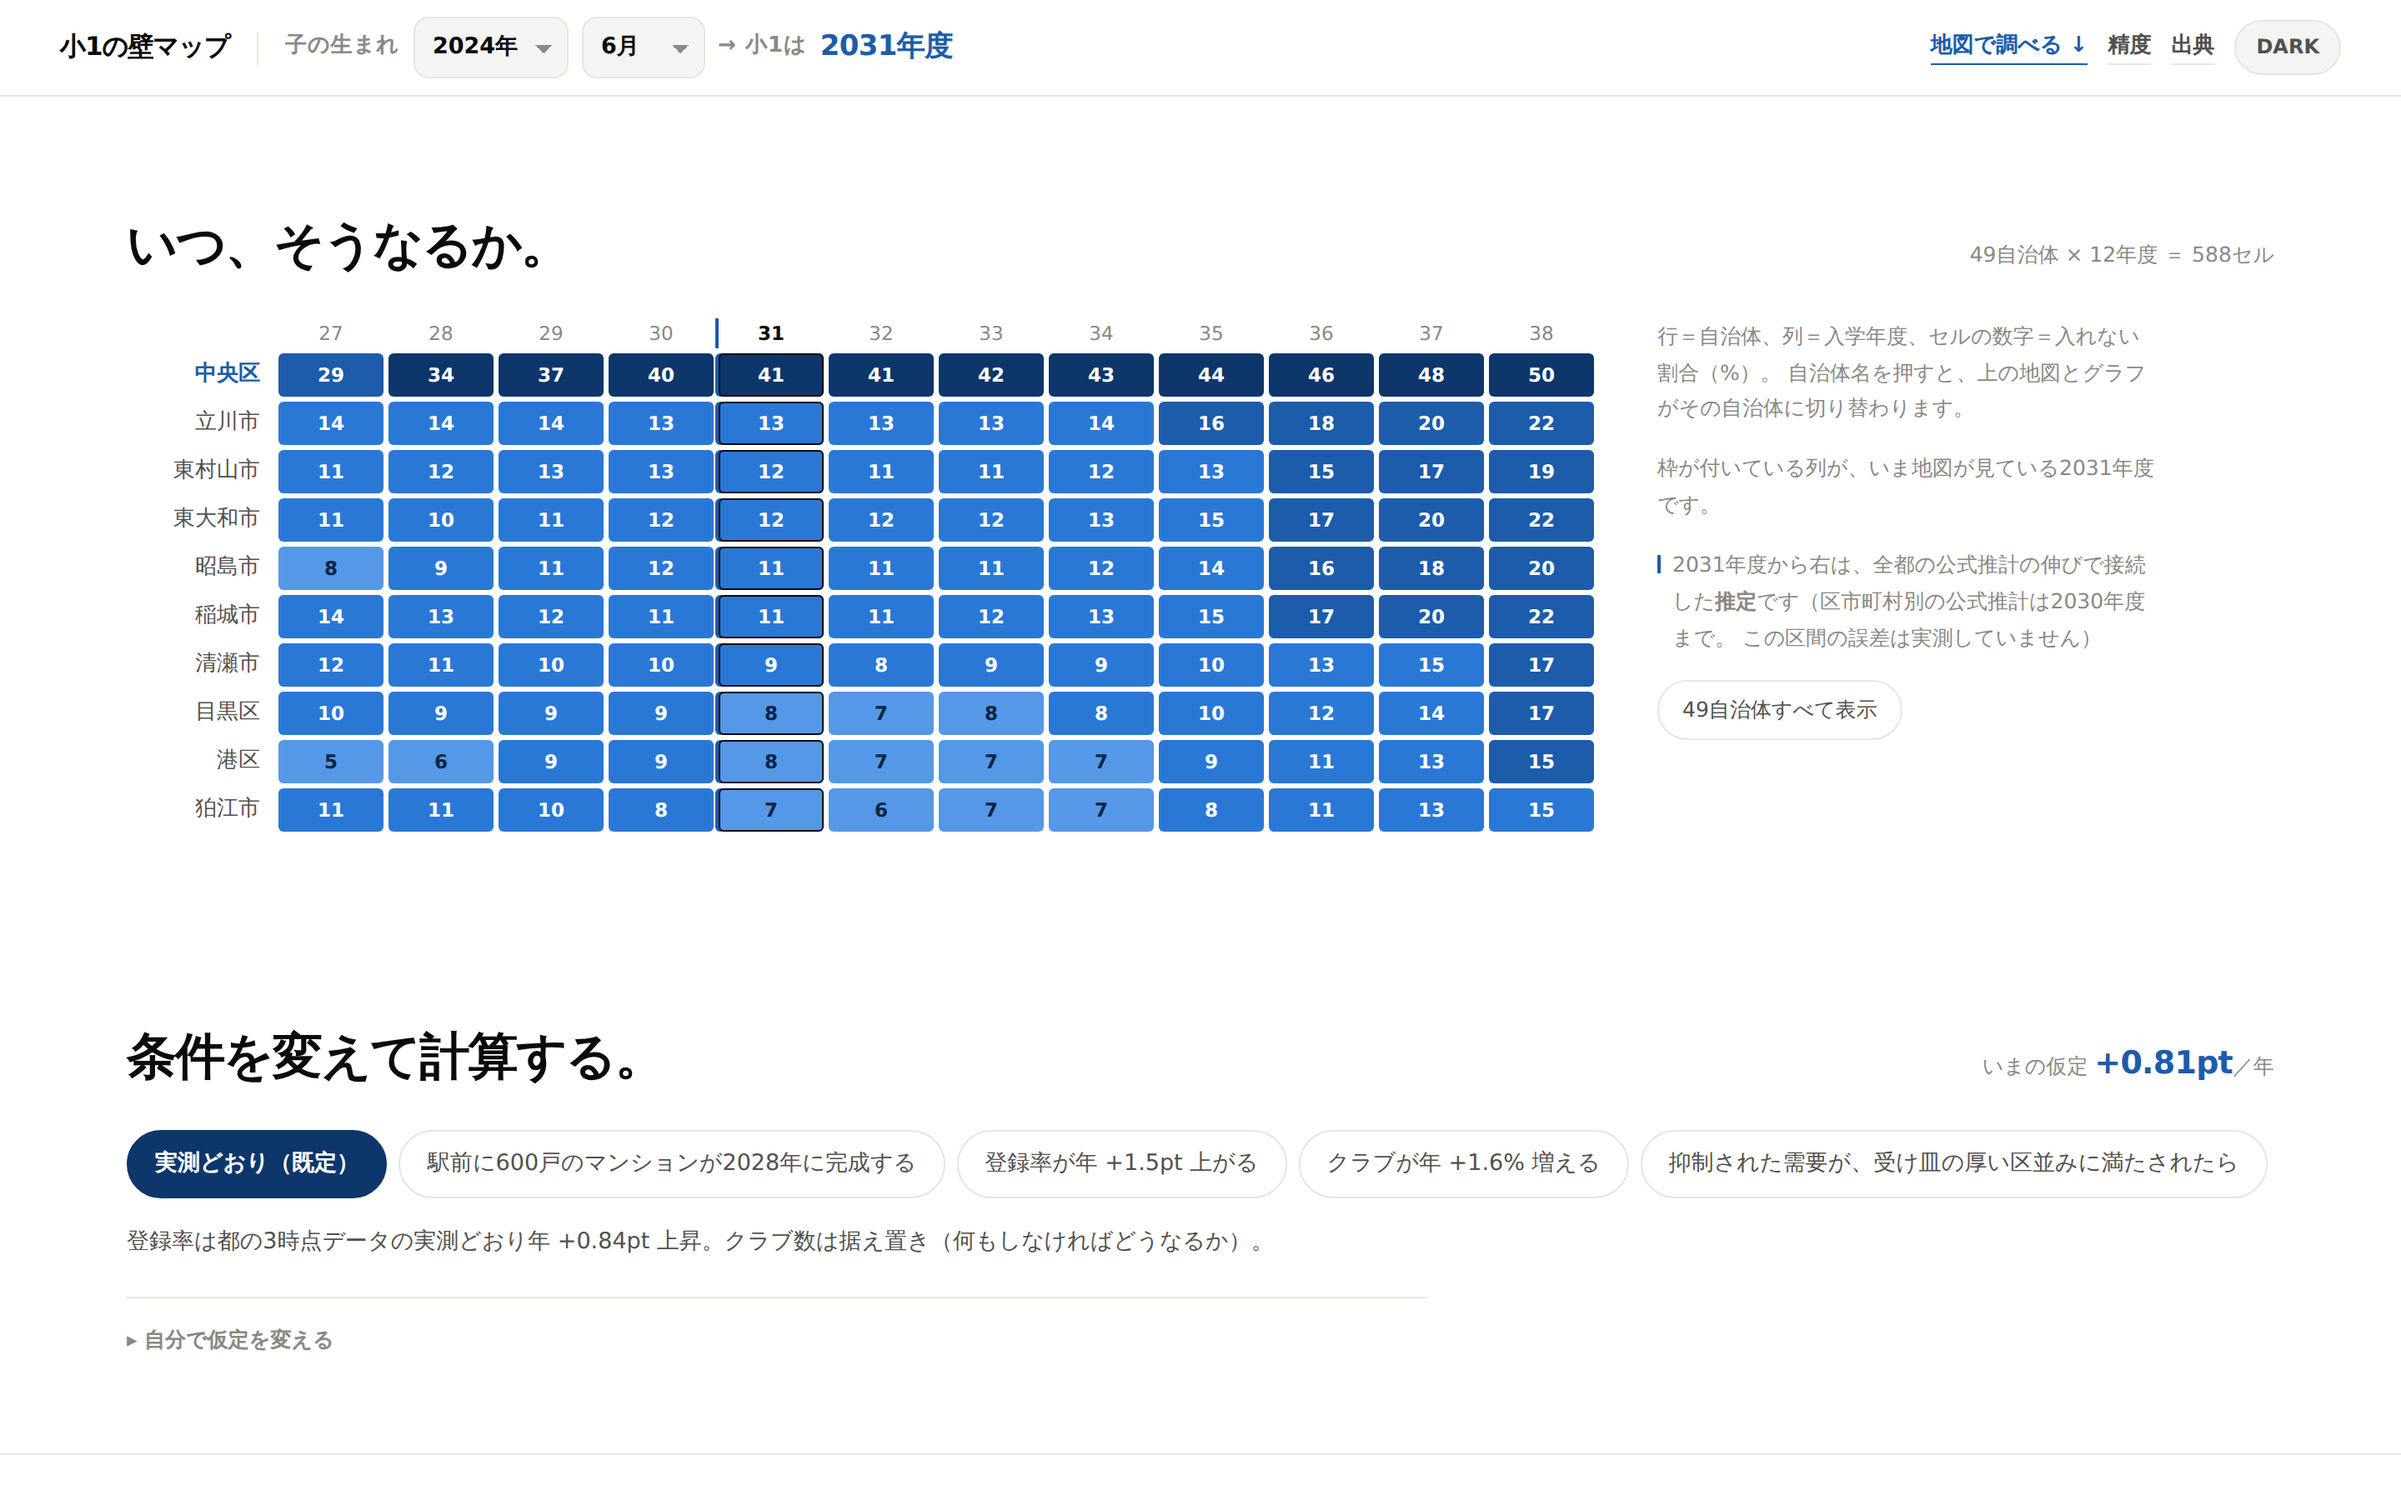
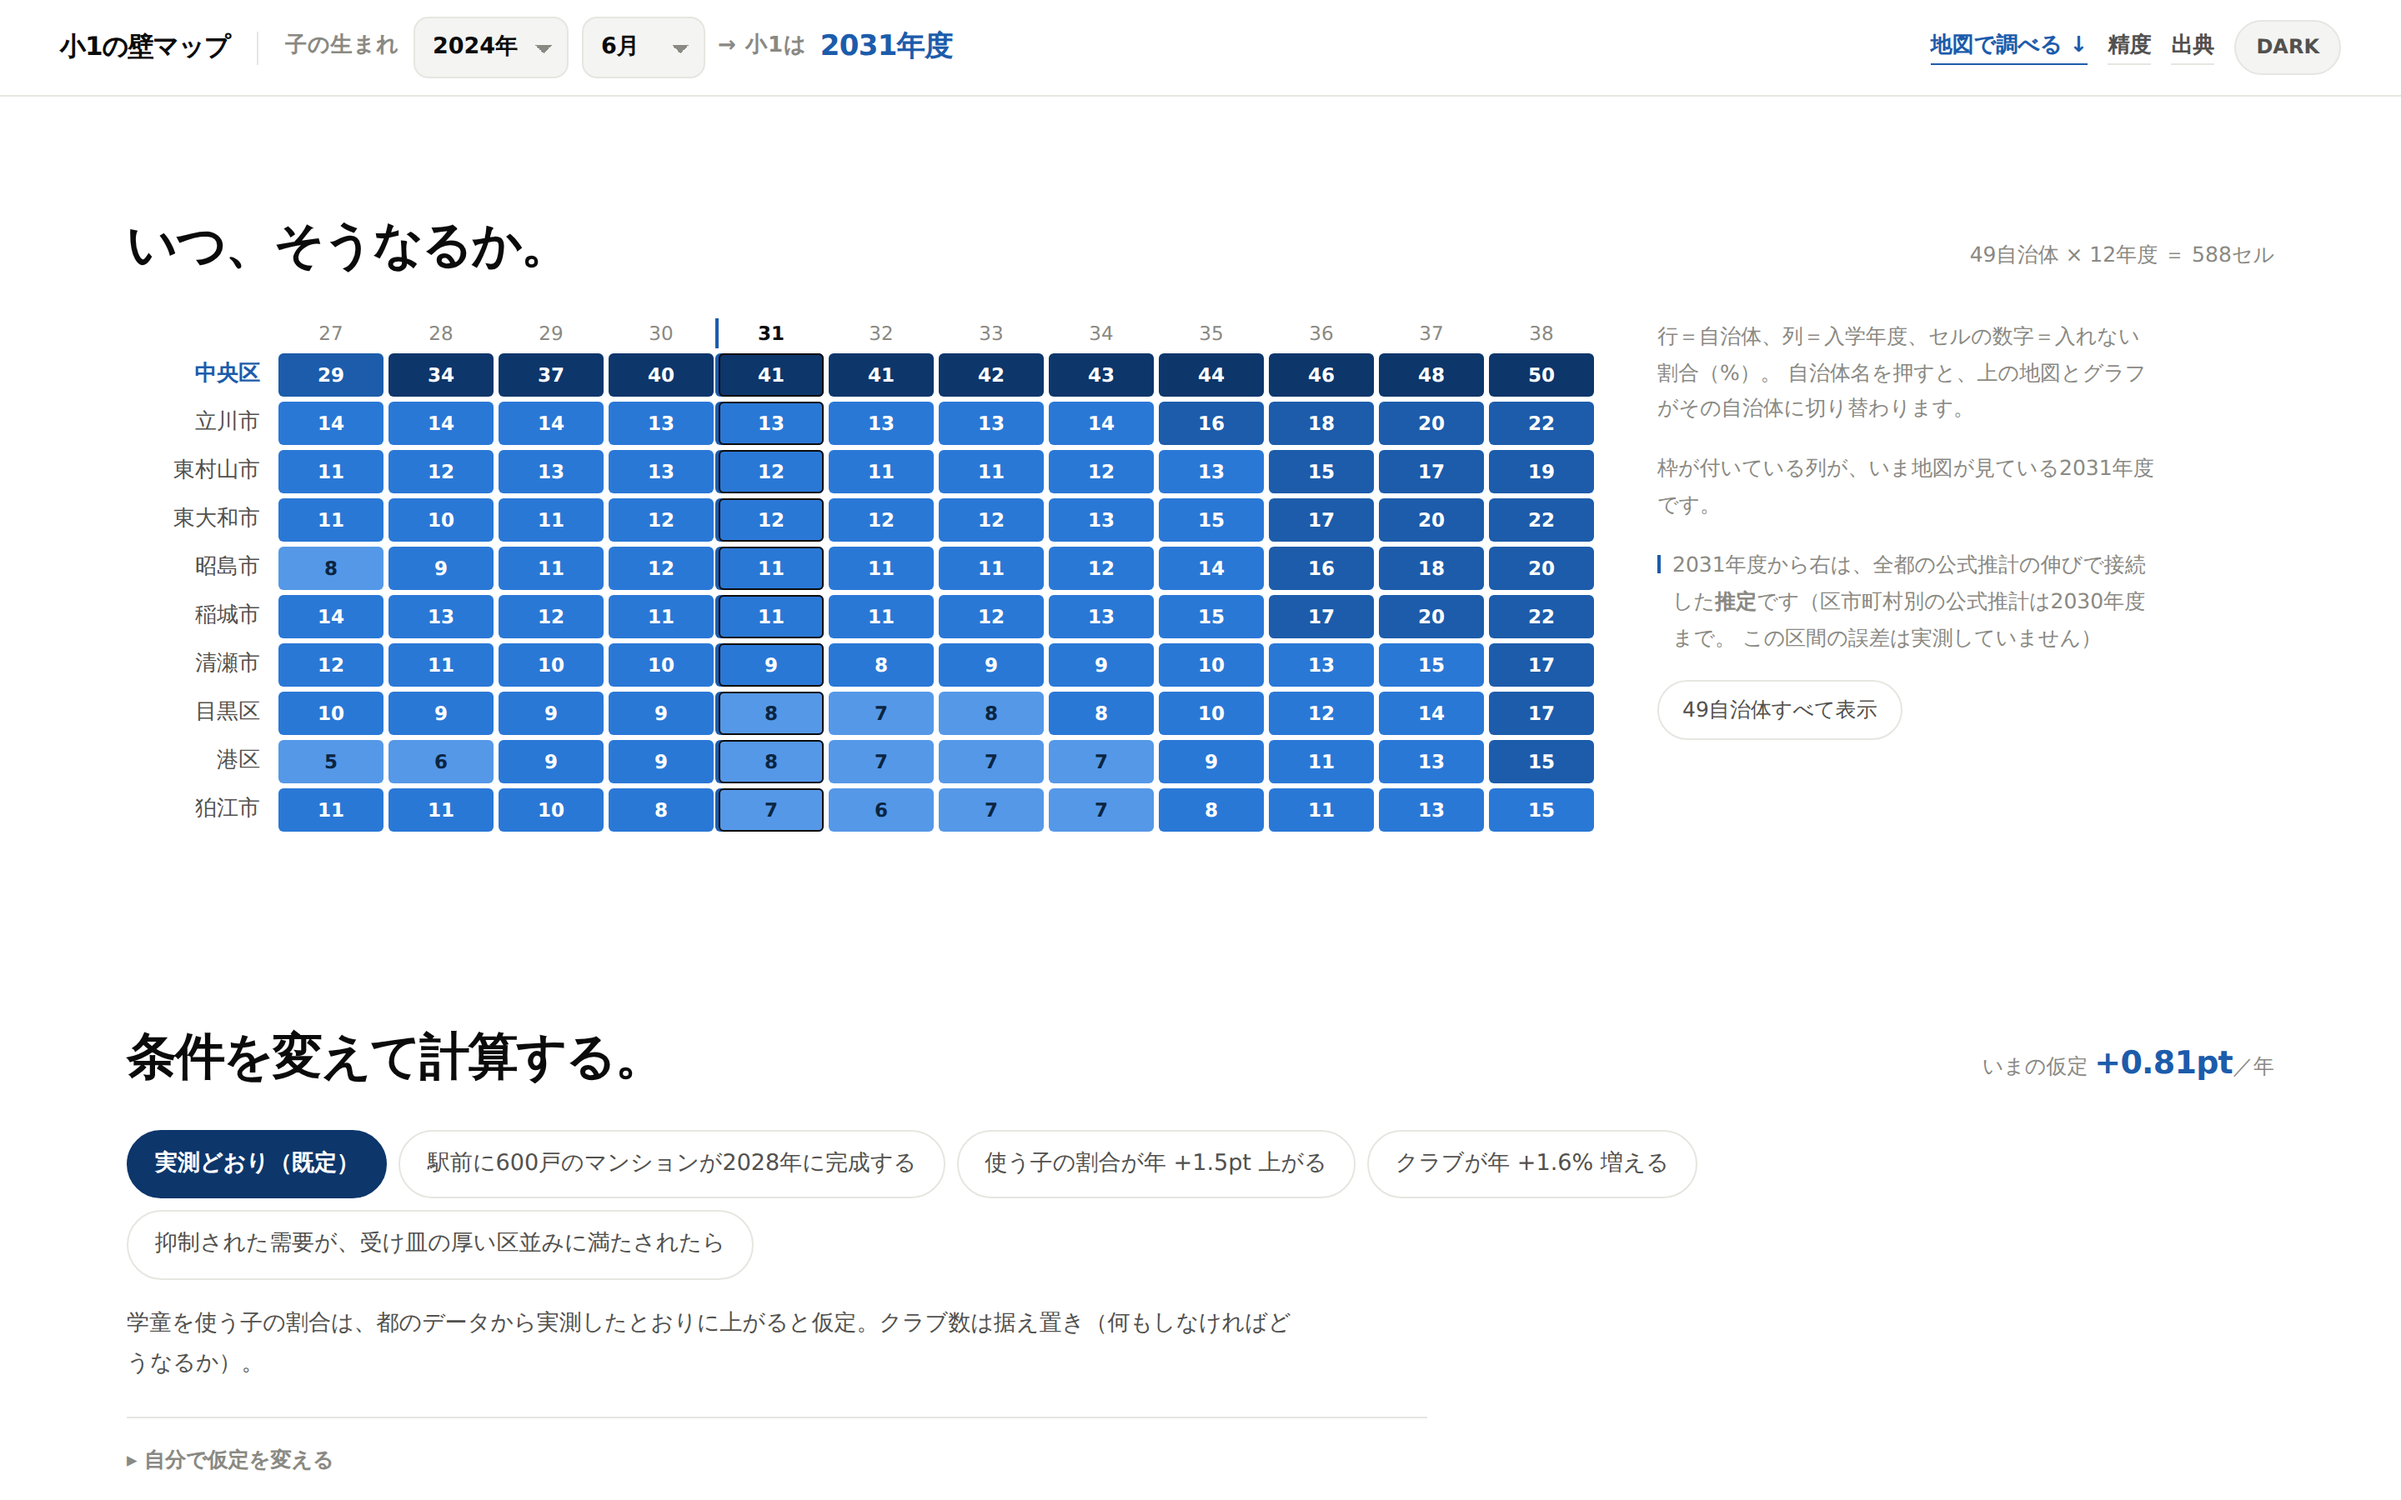
main（②の core 5コミット）を取り込む
API は追加のみで、③のUI側に変更は要らなかった。

- npm test が 66件すべて通過（取り込み前は3件失敗していた）
- 画面の数値は取り込み前後で一致（中央区2031年度 882人／必要2,173／受入1,291／
  待機275／クラブ31、実測トレンド +0.81pt、バックテスト 0.93%・1.37%、
  どの年も不足しないのは3自治体）
- 地図クリック→明細・#choose・ヒートマップ・選択リングの追従も回帰なし

これまで報告していた「同じ画面に +0.81pt と +0.84pt が並ぶ」は、②が main で
解消済みだった（DEFAULT_TREND を 0.0081 に訂正し、プリセットの説明文からは
数字を削除して二重に持たない形にした）。docs/21-redesign.md §8 を更新し、
スクリーンショットを撮り直した。

Claude-Session: https://claude.ai/code/session_018a8KgM77AbzTe8mQVbFP9y

diff --git a/docs/21-redesign.md b/docs/21-redesign.md
@@ -270,12 +270,16 @@ const onPointerMove = (e) => {
 画面に出る数値は**すべて実行時に `data/app/data.json` と `src/core/` から計算**している。
 UI側にハードコードした数値は1つも無い。そのうえで確定していないのは次の3点。
 
-1. **🔴 `[要確認]` 同じ画面に「実測 +0.81pt」と「実測 +0.84pt」が並んで出ている。**
-   `#evidence` と `#scenario` のメタは `measureTrend(DATA)` の実測値 **+0.81pt** を出すが、
-   `src/core/scenario.ts:95` と `:108` のプリセット説明文は **+0.84pt** と書いている
-   （`src/core/constants.ts` の `DEFAULT_TREND = 0.0084` に由来）。
-   実際の計算に使われているのは 0.0081 で、**説明文だけが古い。**
-   ②の所有ファイルなので③では直していない。**提出前に②が数値を揃えること。**
+1. ~~同じ画面に「実測 +0.81pt」と「実測 +0.84pt」が並んで出ている~~
+   → **✅ 解決済み。** ②が main で修正（`DEFAULT_TREND` を 0.0081 に訂正し、
+   プリセットの説明文からは数字そのものを削除して二重に持たない形にした）。
+   2026-08-23 に main をこのブランチへ取り込み、画面で +0.81pt に揃っていることを確認した。
 2. **`[要確認]` 国土数値情報の利用約款とクレジット文言** — `data/SOURCES.md` §9 で①が確認中。
    `src/ui/data.ts` の `GEO_SOURCE.license` は暫定。**8/26 の撮影（YouTube 一般公開）前に確定させること**
 3. **`[要確認]` スマホ実機での表示** — Chromium 390×844 のみ。iOS Safari は未確認
+
+> 2026-08-23：`origin/main`（②の core 5コミット）を取り込み済み。API は追加のみで
+> UI 側の変更は不要だった。`npm test` は **66件すべて通過**（取り込み前は3件失敗）。
+> 画面に出る数値（中央区 2031年度 882人／必要2,173／受入1,291／待機275／クラブ31、
+> 実測トレンド +0.81pt、バックテスト 0.93%・1.37%、どの年も不足しない3自治体）は
+> 取り込み前後で一致している。
